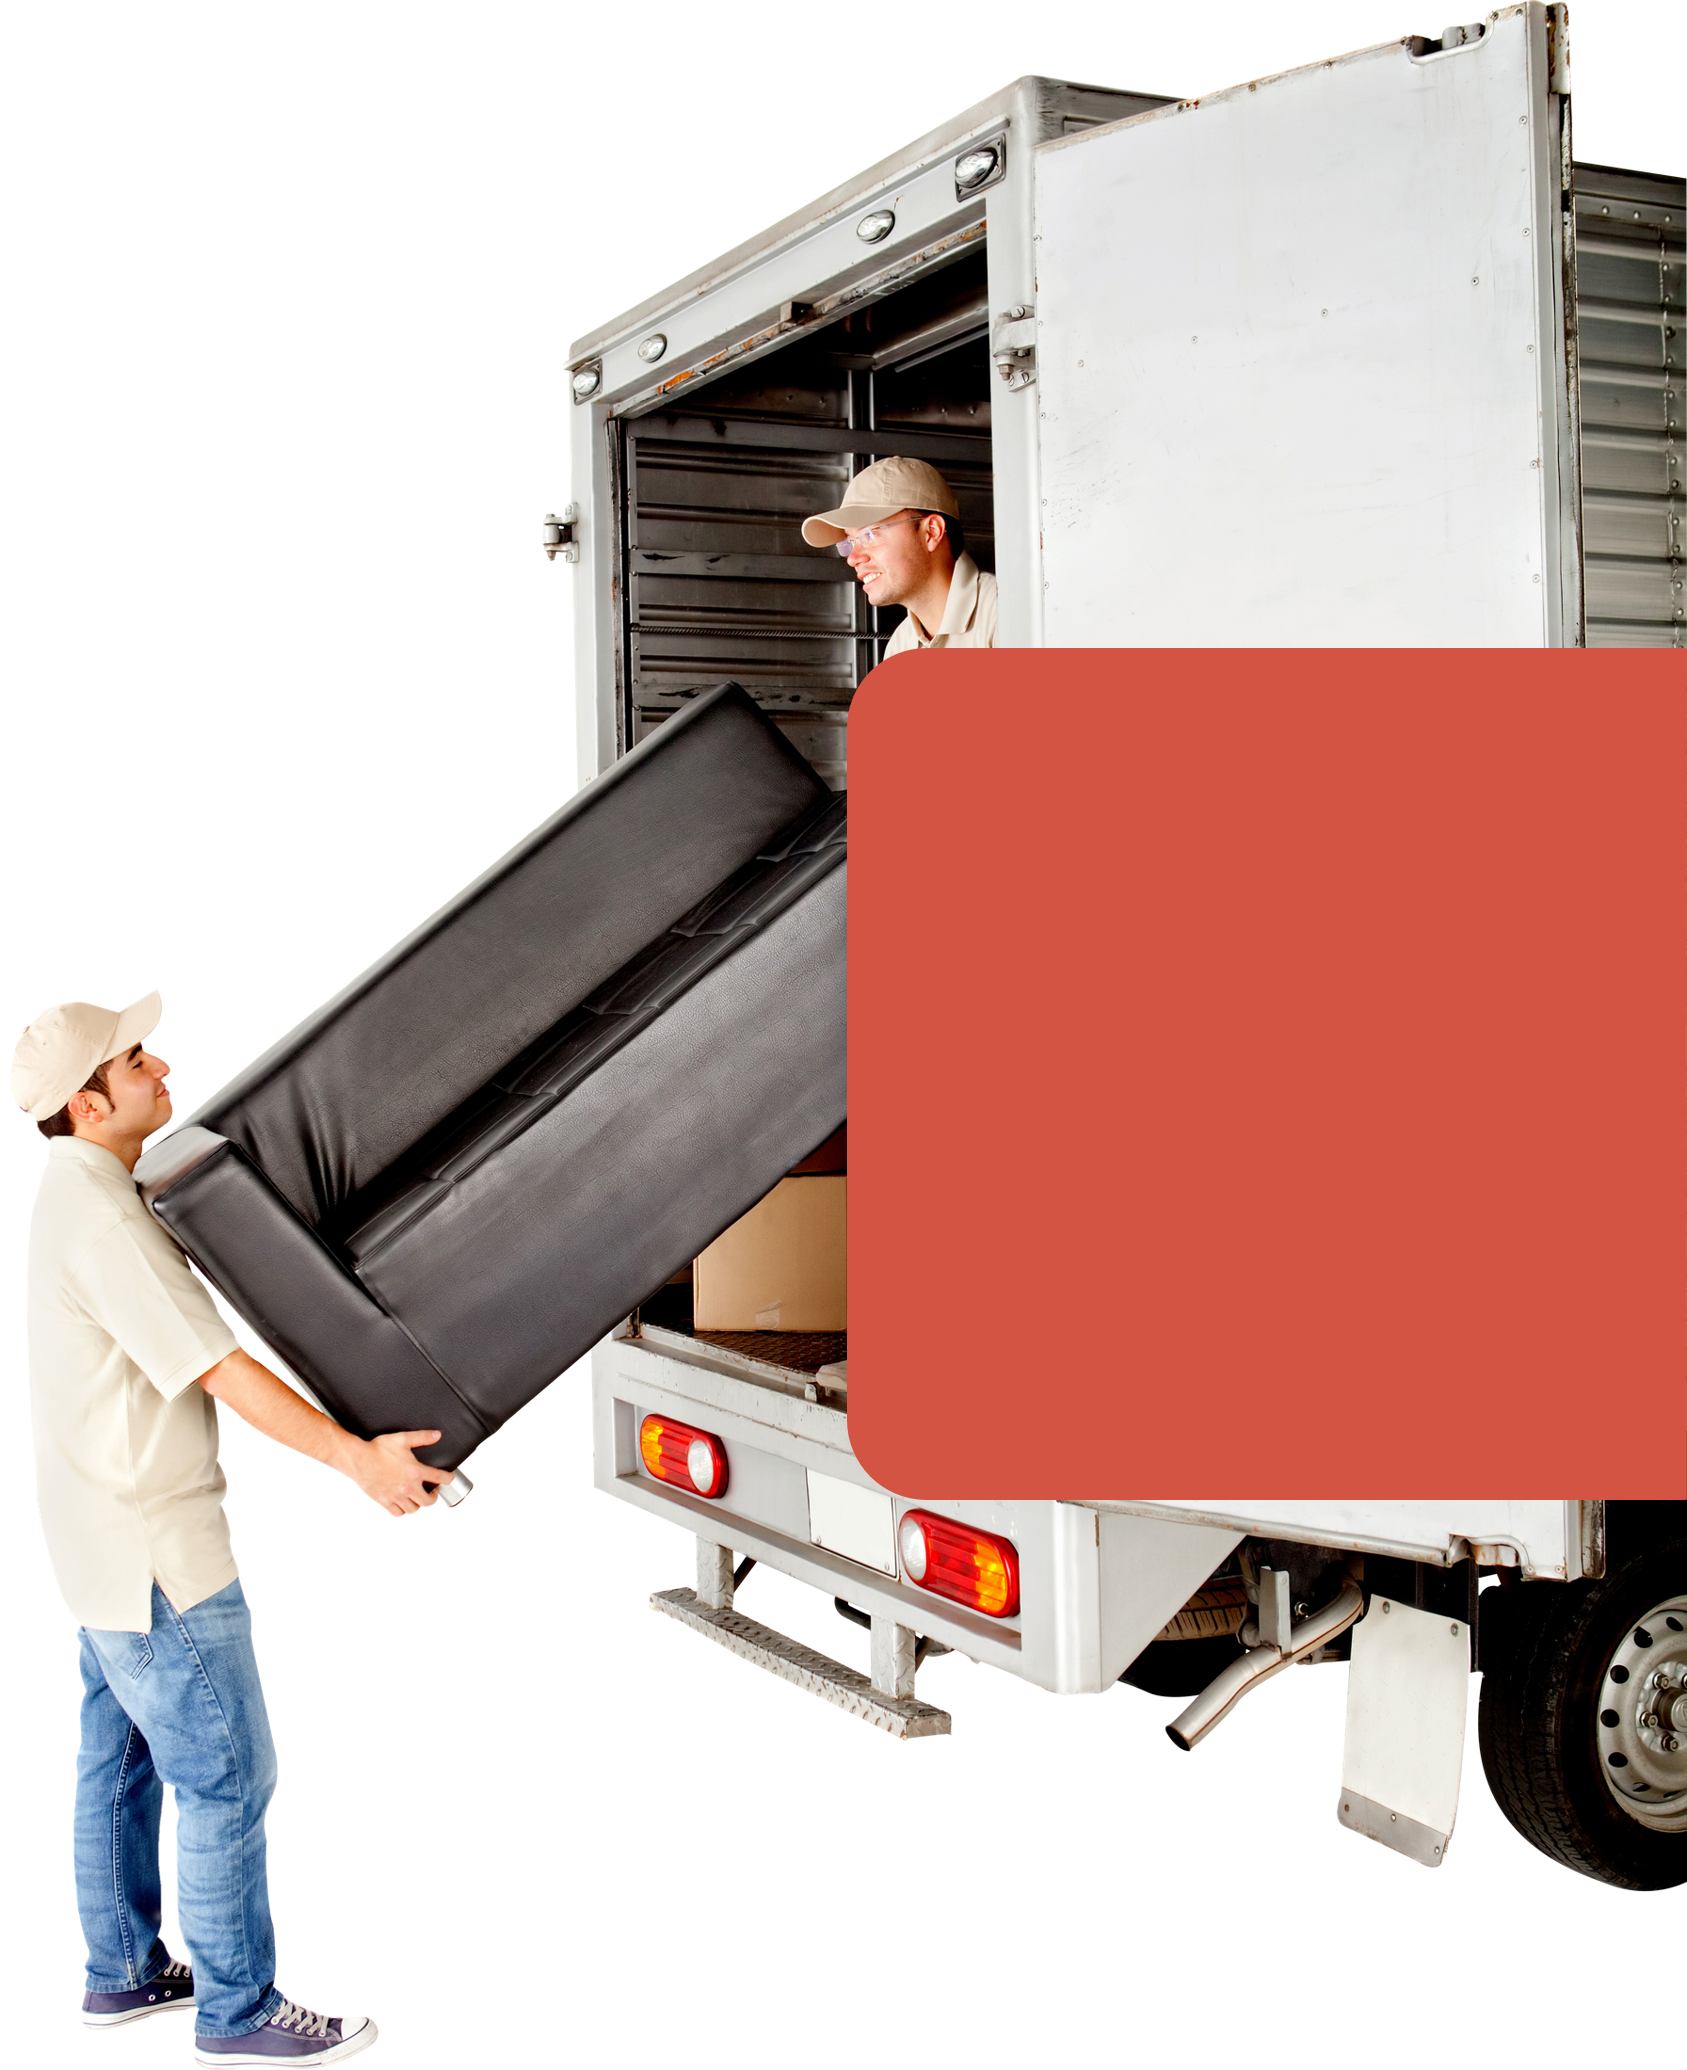
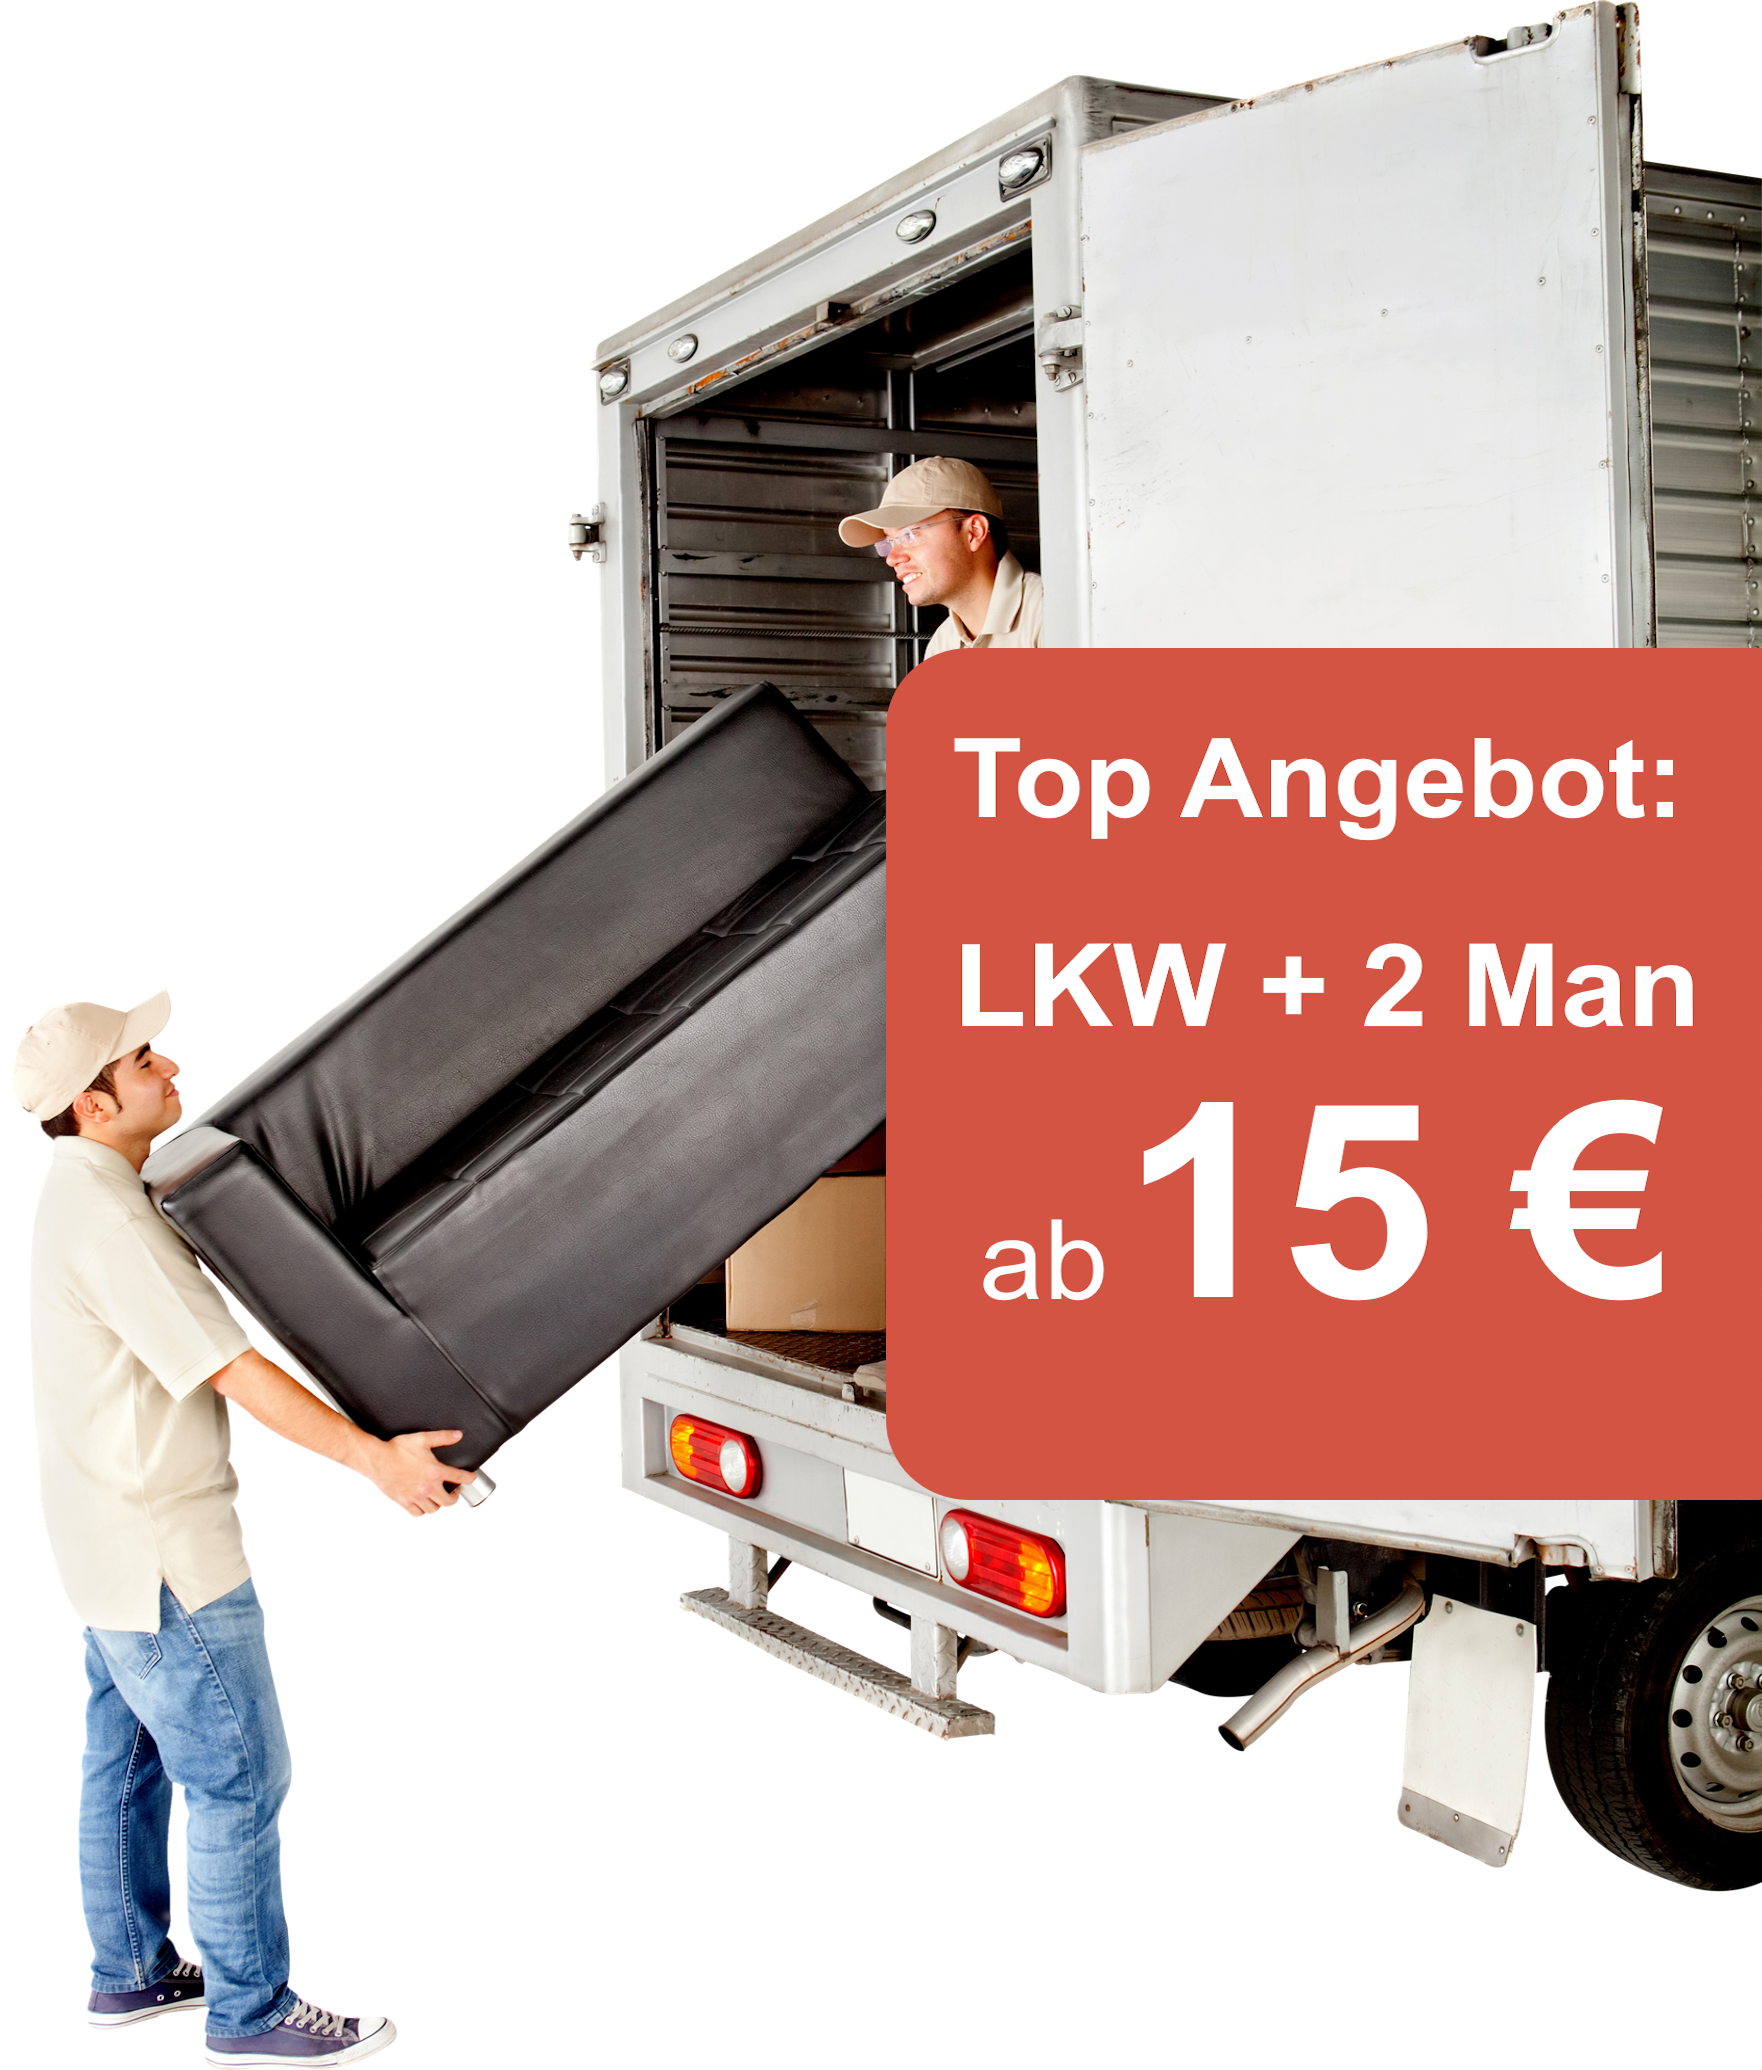
add: section header

diff --git a/app/assets/css/style.min.css b/app/assets/css/style.min.css
@@ -1,2 +1,2 @@
-@charset "UTF-8";*{-webkit-box-sizing:border-box;box-sizing:border-box}a,abbr,acronym,address,applet,article,aside,audio,b,big,blockquote,body,canvas,caption,center,cite,code,dd,del,details,dfn,div,dl,dt,em,embed,fieldset,figcaption,figure,footer,form,h1,h2,h3,h4,h5,h6,header,hgroup,html,i,iframe,img,ins,kbd,label,legend,li,mark,menu,nav,object,ol,output,p,pre,q,ruby,s,samp,section,small,span,strike,strong,sub,summary,sup,table,tbody,td,tfoot,th,thead,time,tr,tt,u,ul,var,video{margin:0;padding:0;border:0}a{text-decoration:none;display:inline-block}.container{max-width:1200px;margin:0 auto;padding:0 15px}.containerP0{max-width:1200px;margin:0 auto;padding:0}body{outline:1px solid red;margin:auto;padding:0;font:16px Helvetica,Arial,sans-serif;max-width:1920px;min-width:320px;color:#000}.forms{position:fixed;width:100%;top:50%;left:50%;-webkit-transform:translate(-50%,-50%);-ms-transform:translate(-50%,-50%);transform:translate(-50%,-50%);z-index:999}.forms__box{margin:auto;background-color:#3d4f45;width:80%;padding:10px 30px;border-radius:10px}.forms__title{font-size:clamp(19px,5vw,40px);color:#fff;font-weight:700;display:-webkit-box;display:-ms-flexbox;display:flex;-webkit-box-pack:justify;-ms-flex-pack:justify;justify-content:space-between;-webkit-box-align:center;-ms-flex-align:center;align-items:center}.forms__button{font-weight:700;letter-spacing:1px;font-size:19px;color:#fff;background-color:#ff4500;padding:17px 40px 17px 60px;border-radius:26px;-webkit-box-shadow:0 15px 40px 0 rgba(48,159,94,.3);box-shadow:0 15px 40px 0 rgba(48,159,94,.3);-webkit-transition:all .15s ease-out;transition:all .15s ease-out;font-size:16px;border-radius:15px}.forms__button:hover{color:#fff;background-color:#292929}.forms__button span{position:relative}.forms__button span::before{content:"";position:absolute;background:url(../icons/telephone-fill.svg);width:16px;height:16px;left:-25px;top:50%;-webkit-transform:translateY(-50%);-ms-transform:translateY(-50%);transform:translateY(-50%)}.closeForm{font-weight:700;background:inherit;border:0;font-size:27px;color:red}.btnFixed{display:none;position:fixed;bottom:0;width:100%;padding:0;margin-bottom:10px}.btnFixed__btn{background-color:#000;width:100%;text-align:center;padding:16px 15px;border-radius:0}.btnFixed__btn::after{content:"";position:absolute;right:10px;top:5px;font-size:12px}.btnFixedD{position:fixed;bottom:20px;right:10px}.btnFixedD__btn{background-color:#000;padding:10px;border-radius:50px;width:38px;height:38px}.btnFixedD__img{width:100%}.loadTheFormFixed{position:fixed;bottom:70px;right:10px}.loadTheFormFixed__btn{background-color:#000;padding:10px;border-radius:50px;width:38px;height:38px;border:0}.loadTheFormFixed__img{width:100%}footer{background-color:#333;color:#fff;font-weight:700;padding:13px 0}.styleSitemap{color:#fff}@media (max-width:500px){.btnFixedD{display:none}.btnFixed{display:block}footer{margin-bottom:60px}}
[1 lines of base64/hex data omitted]
+@charset "UTF-8";*{-webkit-box-sizing:border-box;box-sizing:border-box}a,abbr,acronym,address,applet,article,aside,audio,b,big,blockquote,body,canvas,caption,center,cite,code,dd,del,details,dfn,div,dl,dt,em,embed,fieldset,figcaption,figure,footer,form,h1,h2,h3,h4,h5,h6,header,hgroup,html,i,iframe,img,ins,kbd,label,legend,li,mark,menu,nav,object,ol,output,p,pre,q,ruby,s,samp,section,small,span,strike,strong,sub,summary,sup,table,tbody,td,tfoot,th,thead,time,tr,tt,u,ul,var,video{margin:0;padding:0;border:0}a{text-decoration:none;display:inline-block}.container{max-width:1200px;margin:0 auto;padding:0 15px}.containerP0{max-width:1200px;margin:0 auto;padding:0}body{outline:1px solid red;margin:auto;padding:0;font:16px Helvetica,Arial,sans-serif;max-width:1920px;min-width:320px;color:#000}.header{padding:20px 0 0}.header__box{display:-ms-grid;display:grid;-ms-grid-columns:(1fr)[2];grid-template-columns:repeat(2,1fr);gap:10px}.header__left{max-width:100%;max-height:100%}.header__img{width:100%;height:100%}.header__right{padding:0 10px;display:-webkit-box;display:-ms-flexbox;display:flex;-webkit-box-orient:vertical;-webkit-box-direction:normal;-ms-flex-direction:column;flex-direction:column;-webkit-box-pack:center;-ms-flex-pack:center;justify-content:center}.header__title{text-align:center;font-weight:700;font-size:clamp(36px,5vw,45px);margin-bottom:20px}.header__txt{line-height:20px}.forms{position:fixed;width:100%;top:50%;left:50%;-webkit-transform:translate(-50%,-50%);-ms-transform:translate(-50%,-50%);transform:translate(-50%,-50%);z-index:999}.forms__box{margin:auto;background-color:#3d4f45;width:80%;padding:10px 30px;border-radius:10px}.forms__title{font-size:clamp(19px,5vw,40px);color:#fff;font-weight:700;display:-webkit-box;display:-ms-flexbox;display:flex;-webkit-box-pack:justify;-ms-flex-pack:justify;justify-content:space-between;-webkit-box-align:center;-ms-flex-align:center;align-items:center}.forms__button{font-weight:700;letter-spacing:1px;font-size:19px;color:#fff;background-color:#ff4500;padding:17px 40px 17px 60px;border-radius:26px;-webkit-box-shadow:0 15px 40px 0 rgba(48,159,94,.3);box-shadow:0 15px 40px 0 rgba(48,159,94,.3);-webkit-transition:all .15s ease-out;transition:all .15s ease-out;font-size:16px;border-radius:15px}.forms__button:hover{color:#fff;background-color:#292929}.forms__button span{position:relative}.forms__button span::before{content:"";position:absolute;background:url(../icons/telephone-fill.svg);width:16px;height:16px;left:-25px;top:50%;-webkit-transform:translateY(-50%);-ms-transform:translateY(-50%);transform:translateY(-50%)}.closeForm{font-weight:700;background:inherit;border:0;font-size:27px;color:red}.btnFixed{display:none;position:fixed;bottom:0;width:100%;padding:0;margin-bottom:10px}.btnFixed__btn{background-color:#000;width:100%;text-align:center;padding:16px 15px;border-radius:0}.btnFixed__btn::after{content:"";position:absolute;right:10px;top:5px;font-size:12px}.btnFixedD{position:fixed;bottom:20px;right:10px}.btnFixedD__btn{background-color:#000;padding:10px;border-radius:50px;width:38px;height:38px}.btnFixedD__img{width:100%}.loadTheFormFixed{position:fixed;bottom:70px;right:10px}.loadTheFormFixed__btn{background-color:#000;padding:10px;border-radius:50px;width:38px;height:38px;border:0}.loadTheFormFixed__img{width:100%}footer{background-color:#333;color:#fff;font-weight:700;padding:13px 0}.styleSitemap{color:#fff}@media (max-width:500px){.btnFixedD{display:none}.btnFixed{display:block}footer{margin-bottom:60px}}
[1 lines of base64/hex data omitted]

diff --git a/app/index.html b/app/index.html
@@ -7,7 +7,7 @@
     <meta name="viewport" content="width=device-width, initial-scale=1.0">
     <meta name="description" content="Snelle en betrouwbare service voor uw stad. "/>
     <link rel="shortcut icon" href="./assets/icons/favicon.ico" type="image/x-icon">
-    <title>Seo Title</title>
+    <title>Entrümpelung Wien</title>
 </head>
 
 <body>
@@ -16,9 +16,16 @@
     <header class="header">
         <div class="container-fluid">
             <div class="row">
-                <div class="col-12 container">
+                <div class="col-12 containerP0">
                     <div class="header__box">
-
+                        <div class="header__left">
+                            <img class="header__img" src="./assets/img/mainFon.png" alt="">
+                        </div>
+                        <div class="header__right">
+                            <h1 class="header__title">Entrümpelung Wien</h1>
+                            <p class="header__txt">LKW + 2 Mann ab 15 € – Effiziente <strong>Entrümpelung in Wien</strong> für Wohnungen,  Büros und mehr. Schnell, zuverlässig und  stressfrei. Jetzt für kostenlose Beratung  kontaktieren!
+                            </p>
+                        </div>
                     </div>
                 </div>
             </div>

diff --git a/src/index.html b/src/index.html
@@ -7,7 +7,7 @@
     <meta name="viewport" content="width=device-width, initial-scale=1.0">
     <meta name="description" content="Snelle en betrouwbare service voor uw stad. "/>
     <link rel="shortcut icon" href="./assets/icons/favicon.ico" type="image/x-icon">
-    <title>Seo Title</title>
+    <title>Entrümpelung Wien</title>
 </head>
 
 <body>
@@ -16,9 +16,16 @@
     <header class="header">
         <div class="container-fluid">
             <div class="row">
-                <div class="col-12 container">
+                <div class="col-12 containerP0">
                     <div class="header__box">
-
+                        <div class="header__left">
+                            <img class="header__img" src="./assets/img/mainFon.png" alt="">
+                        </div>
+                        <div class="header__right">
+                            <h1 class="header__title">Entrümpelung Wien</h1>
+                            <p class="header__txt">LKW + 2 Mann ab 15 € – Effiziente <strong>Entrümpelung in Wien</strong> für Wohnungen,  Büros und mehr. Schnell, zuverlässig und  stressfrei. Jetzt für kostenlose Beratung  kontaktieren!
+                            </p>
+                        </div>
                     </div>
                 </div>
             </div>

diff --git a/src/assets/scss/1_header.scss b/src/assets/scss/1_header.scss
@@ -1,0 +1,28 @@
+.header {
+    padding: 20px 0 0;
+}
+.header__box {
+    display: grid;
+    grid-template-columns: repeat(2,1fr);
+    gap: 10px;
+}
+.header__left {
+    max-width: 100%;
+    max-height: 100%;
+}
+.header__img {
+    width: 100%;
+    height: 100%;
+}
+.header__right {
+    padding: 0 10px;
+    display: flex;
+    flex-direction: column;
+    justify-content: center;
+}
+.header__title {
+    @include h1Title;
+}
+.header__txt {
+    line-height: 20px;
+}

diff --git a/src/assets/scss/0_style.scss b/src/assets/scss/0_style.scss
@@ -46,10 +46,10 @@ body{
 $btnColorFixed : #000;
 
 @mixin h1Title {
-    color: #fff;
     text-align: center;
     font-weight: 700;
-    font-size: clamp(36px,5vw,50px);
+    font-size: clamp(36px,5vw,45px);
+    margin-bottom: 20px;
 }
 @mixin h2Title {
     text-align: center;
